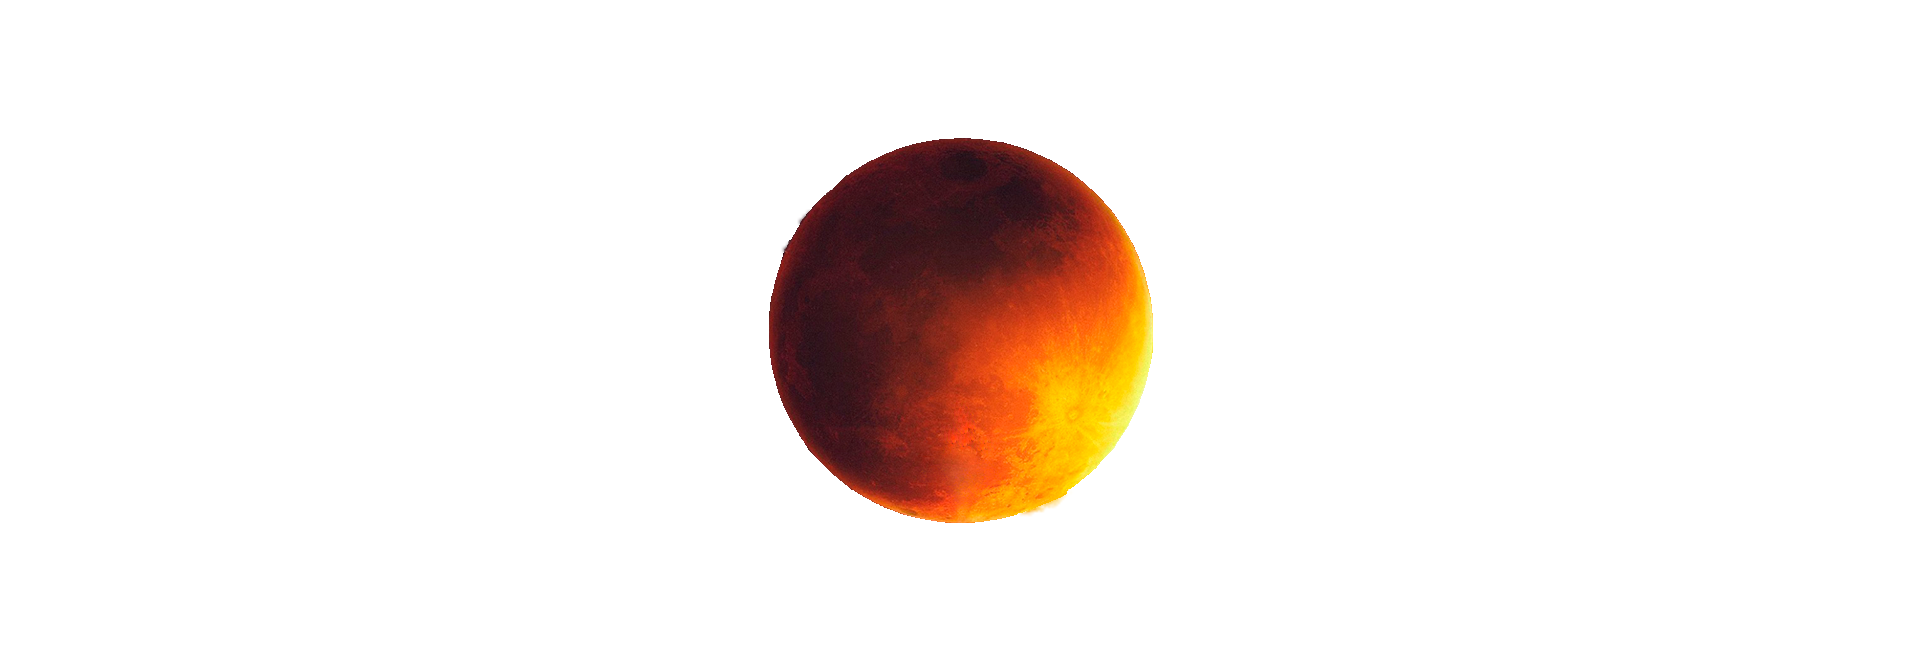
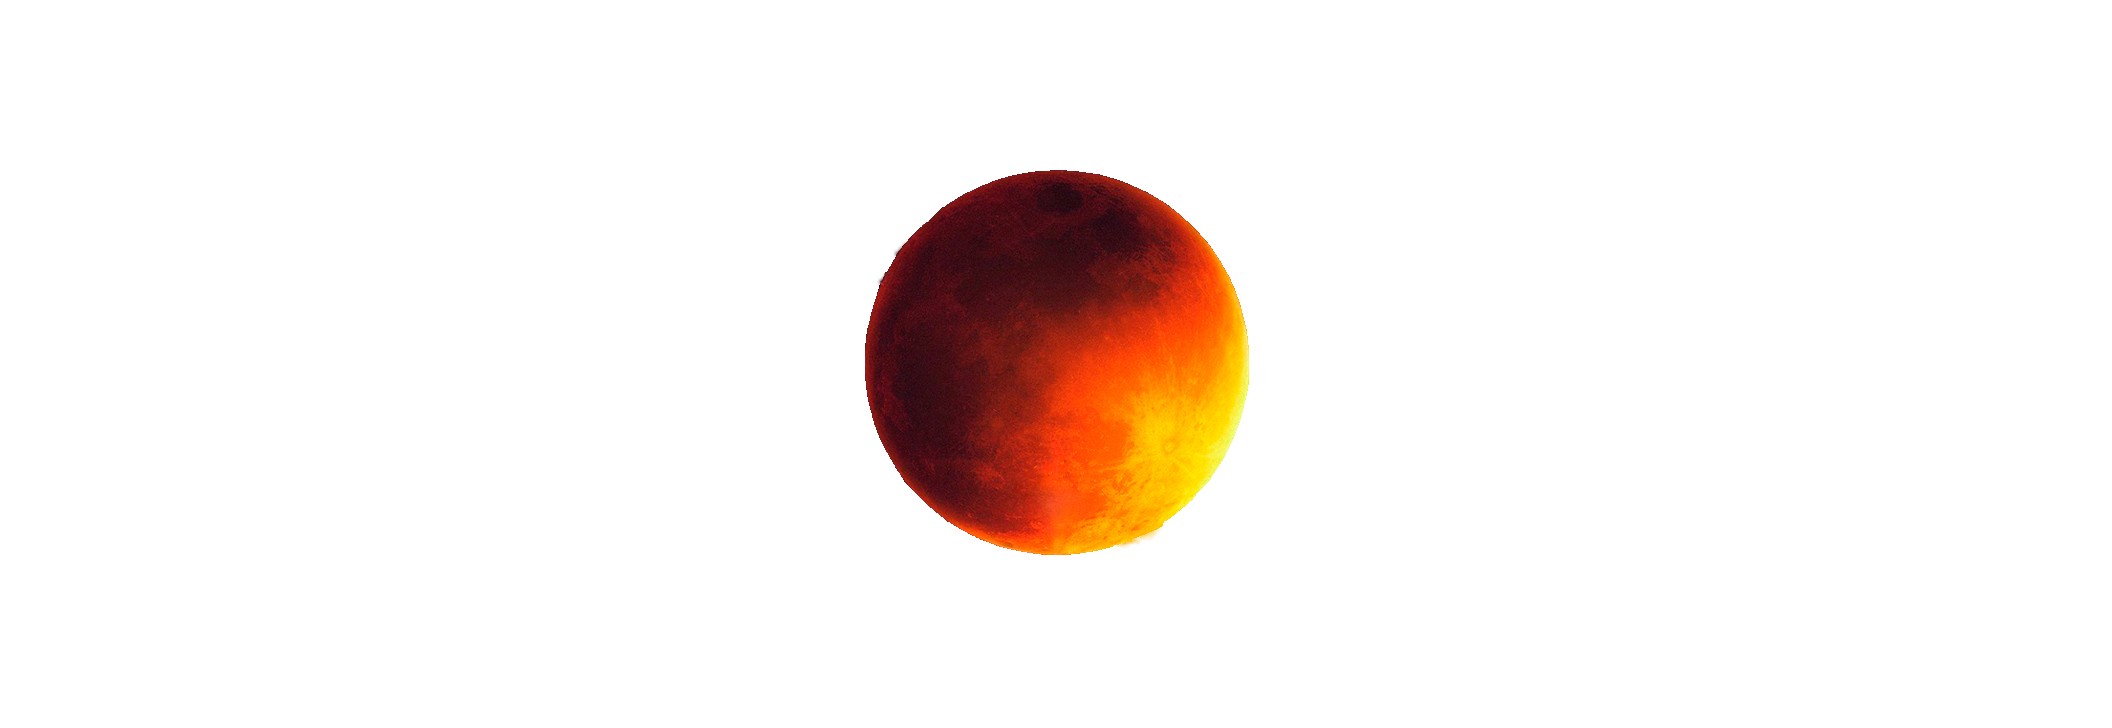
fix: fix error of bg-parallax

Changed region(s): [[0.375, 0.2121, 0.625, 0.7879]]

diff --git a/src/asset/pages/main/index.html b/src/asset/pages/main/index.html
@@ -9,32 +9,33 @@
 </head>
 
 <body class="page">
-  <div class="mouse-parallax">
-    <div class="mouse-parallax__bg"></div>
-    <div class="mouse-parallax__mars"></div>
-    <span class="mouse-parallax__line"></span>
-
-    <div class="mouse-parallax__ship"></div>
-    <div class="mouse-parallax__fix-container">
-      <header class="header">
-        <div class="header__wrapper">
-          <a class="header__link header__link_logo">
-            <img class="header__logo" src="<%=require('../../images/logo.png')%>" alt="Логотип Space-X">
-          </a>
-          <nav class="header__nav">
-            <ul class="header__list">
-              <li><a class="header__link" href="#">Главная</a></li>
-              <li><a class="header__link" href="#">Технология</a></li>
-              <li><a class="header__link" href="#">График полетов</a></li>
-              <li><a class="header__link" href="#">Гарантии</a></li>
-              <li><a class="header__link" href="#">О компании</a></li>
-              <li><a class="header__link" href="#">Контакты</a></li>
-            </ul>
-          </nav>
-        </div>
-    </div>
-    </header>
+  <div class="parallax">
+    <div class="parallax__bg"></div>
+    <div class="parallax__mars"></div>
+    <span class="parallax__line"></span>
+    <div class="parallax__ship"></div>
   </div>
+
+  <div class="parallax__fix-container">
+    <header class="header">
+      <div class="header__wrapper">
+        <a class="header__link header__link_logo">
+          <img class="header__logo" src="<%=require('../../images/logo.png')%>" alt="Логотип Space-X">
+        </a>
+        <nav class="header__nav">
+          <ul class="header__list">
+            <li><a class="header__link" href="#">Главная</a></li>
+            <li><a class="header__link" href="#">Технология</a></li>
+            <li><a class="header__link" href="#">График&nbspполетов</a></li>
+            <li><a class="header__link" href="#">Гарантии</a></li>
+            <li><a class="header__link" href="#">О&nbspкомпании</a></li>
+            <li><a class="header__link" href="#">Контакты</a></li>
+          </ul>
+        </nav>
+      </div>
+  </div>
+  </header>
+
 
 
 

diff --git a/src/asset/pages/main/index.scss b/src/asset/pages/main/index.scss
@@ -118,22 +118,9 @@ $text-color-hover: #b1b1b1;
 .mouse-parallax__mars,
 .mouse-parallax__ship,
 .mouse-parallax__fix-container {
-    position: absolute;
-    top: 0;
-    right: 0;
-    bottom: 0;
-    left: 0;
-    width: 100%;
-    height: 100%;
-    transition: all 0.2s ease-out;  
-    background-image: url('../../images/background.jpg');
-    background-position: center center;
-    background-repeat: no-repeat;
-    background-size: cover;
-    z-index: 1;
-  
-}
 
+ 
+}
 
 .mouse-parallax__mars {
   background-image: url('../../images/mars_big.png');  
@@ -165,4 +152,45 @@ $text-color-hover: #b1b1b1;
   background-image:none;
   background: transparent;
   z-index: 4;
+}
+
+
+.parallax__fix-container{
+position: relative;
+z-index: 100;
+}
+.parallax{
+  position: fixed;
+  top: 0;
+  left: 0;
+  right: 0;
+  bottom: 0;
+  overflow: hidden;
+  z-index: 10;
+}
+.parallax__bg{
+  position: absolute;
+  background-image: url('../../images/sun_background.jpg');
+  background-position: center center;
+  background-size: cover;
+  background-repeat: no-repeat;
+  width: 110%;
+  height: 110%;
+  transition: all 0.1s ease;  
+}
+
+
+.parallax__mars{
+  position: absolute;
+  background-image: url('../../images/mars_big.png');  
+  top: 0;
+  right: 0;
+  bottom: 0;
+  left: 0;
+  width: 110%;
+  height: 110%;
+  background-position: center center;
+  background-repeat: no-repeat;
+  background-size: cover;
+  z-index: 1;
 }

diff --git a/src/index.js b/src/index.js
@@ -2,7 +2,7 @@ import './normalize.css'
 import './asset/fonts/fonts.css'
 import './asset/pages/main/index.scss'
 
-let bg = document.querySelector('.mouse-parallax__bg');
+let bg = document.querySelector('.parallax__bg');
 let line = document.querySelector('.mouse-parallax__line');
 let ship = document.querySelector('.mouse-parallax__ship');
 let isTransform = false;
@@ -18,9 +18,9 @@ const g = (h) => {
 }
 
 
-bg.style.transform = `translate( ${x * 15}px, ${y * 10}px)`;
+bg.style.transform = `translate( -${x * 15}px, -${y * 10}px)`;
+
 if(isTransform === false) {
- console.log('change')
  ship.style.transform = `scale(.7) rotateX(40deg)`;
  line.style.transform = `translateY(-30px)`;
  isTransform= true}
